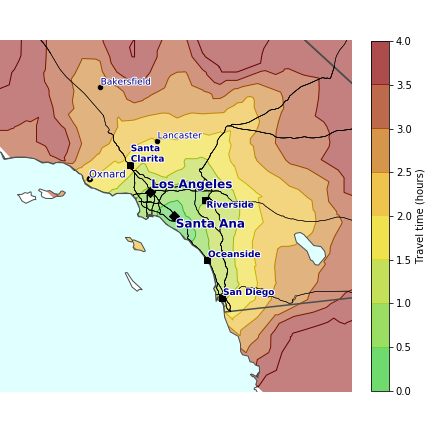
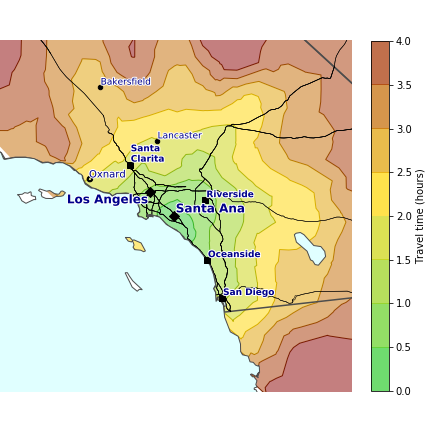
small tweaks

Changed region(s): [[0.0, 0.0903, 0.8125, 0.9028], [0.8426, 0.0903, 0.9028, 0.5116], [0.331, 0.3009, 0.3611, 0.331]]

diff --git a/_pages/chronomaps.md b/_pages/chronomaps.md
@@ -343,7 +343,7 @@ def morph(pp, p0, func, projmap=''):
 ```
 This function simply decomposes a point (given as (lon,lat) pair of coordinates) into radial coordinates from the origin `p0`, `(dx,dy)-> (r,theta)`, computes a new radius given by the input function (which will give the travel time), and returns a `(x',y')` pair in the same direction with respect to the origin as the original point but with a new radius given by the travel time.
 
-Given that we have the travel times only on a discrete set of grid points and we want to rescale map features at arbitrary points, we need to interpolate the travel times over the input grid.  After trying the `interp2d, NearestNDInterpolator, LinearNDInterpolator, Rbf` methods of `scipy.interpolate`, I saw that the best results (more accurate, less noisy) were given by linear interpolation, i.e. `LinearNDInterpolator`.
+Given that we have the travel times only on a discrete set of grid points and we want to rescale map features at arbitrary points, we need to interpolate the travel times over the input grid.  After trying the `interp2d, NearestNDInterpolator, LinearNDInterpolator, Rbf` methods of `scipy.interpolate`, I saw that the best results (more accurate, less noisy) were given by `Rbf`, radial basis function approximator, with linear method.
 
 ```python 
 from scipy.interpolate import interp2d, NearestNDInterpolator, LinearNDInterpolator, Rbf
@@ -351,11 +351,11 @@ from scipy.interpolate import interp2d, NearestNDInterpolator, LinearNDInterpola
 func1 = interp2d(xx,yy,zz)
 func2 = NearestNDInterpolator(zip(xx,yy),zz)
 func3 = LinearNDInterpolator(zip(xx,yy),zz)
-func4 = Rbf(xx,yy,zz)
+func4 = Rbf(xx,yy,zz, function='linear')
+func5 = Rbf(xx,yy,zz)
 
 def time_func(pp):
-    res = func3(*pp) if not np.isnan(func3(*pp)) else func4(*pp)
-    return res
+    return  func4(*pp)
 ```
 
 We can now feed any point of any feature in `morph()` with input function `time_func` and the resulting map will, by construction, be a chronomap. In order to actually draw the chronompas, we will need a to go through a short detour to import features to display on the map.
@@ -367,7 +367,7 @@ We can now feed any point of any feature in `morph()` with input function `time_
 
     > Primary roads are generally divided, limited-access highways within the interstate highway system or under State management, and are distinguished by the presence of interchanges
 
-- cities: we use the `GeoNamesCache` dataset, which can easily be installed as a `conda` package. It contains information about countries, states and cities all over the world, but we will be interested in the cities dataset. We then filter the dataset to only get the list of US cities:
+- cities: we use the [GeoNames](https://www.geonames.org) dataset, accessible through `GeoNamesCache` in python, which can easily be installed as a `conda` package (on Windows only, use `pip` on Mac/Linux). It contains information about countries, states and cities all over the world, but we will be interested in the cities dataset. We then filter the dataset to only get the list of US cities:
 
     ```python
 import geonamescache
@@ -404,7 +404,7 @@ def map_font_style(pop, bins=np.array([.01,.05,.1,.5,1,3])*10**6, sizes=[7,8,9,9
         ci.append(sum([ ci2[3] for ci2 in absorbed_cities]))
     return cities
     ```
-    From an input of cities, each passed as `[lon, lat, name, population]`, for each city this looks at cities within a certain radius (25 miles by default) and adds the population of any smaller city to the city around which we are looking. The list of cities returned is then `[lon, lat, name, population, clsutered_cities_names, clsutered_cities_populations]`: as an example, take Los Angeles, which has 3.97M people in GeoNamesCache database. Within a 25 miles radius, we have Long Beach (474K) and Anaheim (350k), and many more. Summing together all the 113 cities within a 25 miles of Los Angeles, there are 11M people! So when drawing the map, I will not draw any of the smaller cities and just assign 11 million people to Los Angeles.
+    From an input of cities, each passed as `[lon, lat, name, population]`, for each city this looks at cities within a certain radius (25 miles by default) and adds the population of any smaller city to the city around which we are looking. The list of cities returned is then `[lon, lat, name, population, clsutered_cities_names, clsutered_cities_populations]`: as an example, take Los Angeles, which has 3.97M people in the GeoNamesCache database. Within a 25 miles radius, we have Long Beach (474k) and Anaheim (350k), and many more. Summing together all the 113 cities within a 25 miles of Los Angeles, there are 11M people! So when drawing the map, I will not draw any of the smaller cities and just assign 11 million people to Los Angeles.
   
 #### Chronomaps
 Finally, we are now equipped to make chronomaps that are visually recognizable. As I will be making many of these figures, I wrote a function that will return the whole chronomap, `make_chronomap(x,y,z, ax, projmap, p0, levels, lim = 155, plot_states=True, plot_cities=True, dist_cut=25, n_cities_cut=20, small_city_radius=0, plot_roads=True, roads='', plot_water=True, cbarlabel='Travel time (hours)', theta='', water_lw=1, zorder_water=3)`
@@ -435,7 +435,7 @@ cities = [[ci['longitude'],ci['latitude'],ci['name'],ci['population']] for ci in
 cities = cluster_cities(cities, dist_cut)
 cities_plot = [ci for ci in cities if (len(ci)>4 and time_func([ci[0], ci[1]])<levels[-2]) or time_func([ci[0], ci[1]])<small_city_radius]
 texts=[]
-for ci in cities_plot[:n_cities_cut]:
+for ci in reversed(cities_plot[:n_cities_cut]):
     mci = morph([ci[0], ci[1]], p0, time_func, projmap=themap)
     if is_in_range(mci, ax.get_xlim(),ax.get_ylim()) :
         ax.scatter(*mci, c='k', zorder=100, **map_point_style(ci[-1]) )
@@ -443,7 +443,7 @@ for ci in cities_plot[:n_cities_cut]:
         texts.append(ax.text(*mci, s=reformat_name(ci[2]), fontdict=font, zorder=100))
 for txt in texts: txt.set_path_effects([PathEffects.withStroke(linewidth=2, foreground='w')])
 ```
-Here first I get a list of cities from the GeoNamesCache database, filtering the ones that are in the geographical range of the map, then I cluster them, and finally I plot each city and add a text label with the correct font reflecting the population. A cool feature of `matplotlib` is the ability to put a white background behind the text to improve readability. This is done via `set_path_effects([PathEffects.withStroke()])` in the last line.
+Here first I get a list of cities from the GeoNamesCache database, filtering the ones that are in the geographical range of the map, then I cluster them, and finally I plot each city and add a text label with the correct font reflecting the population. The list is reversed because we want a large city to show up on top of a smaller city if their labels overlap. A cool feature of `matplotlib` is the ability to put a white background behind the text to improve readability. This is done via `set_path_effects([PathEffects.withStroke()])` in the last line.
 
 Finally, I plot the isochrones, which by construction are now circles:
 ```python
@@ -459,10 +459,11 @@ I find that the map looks better (more intuitive) by adding a water layer with o
 
 For the last zoomed map, I used the `make_chronomap parameters `dist_cut=10, n_cities_cut=30, small_city_radius=30`: as we are zooming in, I clustered cities with a 10 mile radius, displayed up to 30 cities, and showed all cities within a 30 miles radius of the origin. The resulting map is busy enough, but not too much.
 
+One last comment: the maps would be much messier if it were not for the [adjustText](https://github.com/Phlya/adjustText) package. This package iteratively adjusts the position of text labels to minimize overlaps, while trying to keep the label as close to the original anchor as possible.
 
 ### More Chronomaps
 
-After showing step-by-step how to make chronomaps, we can do many more in a batch. We simply define a list of cities, get tehir coordinates from GeoNamesCache (as before, this could also be done with the Google Maps Geocoding API) and a list of EPSG codes for each city (these can be found on [https://spatialreference.org]()
+After showing step-by-step how to make chronomaps, we can do many more in a batch. We simply define a list of cities, get their coordinates from GeoNamesCache (as before, this could also be done with the Google Maps Geocoding API) and a list of EPSG codes for each city (these can be found on [https://spatialreference.org]()
 
 ```python
 cities_list = ['San Francisco', 'Seattle', 'Denver', 'Chicago', 'Washington, D.C.', 'New York City']
@@ -515,7 +516,11 @@ for idx in range(len(cities_list)):
     ax = make_chronomap(xx,yy,zz, ax, [themap,themap0], p0, levels=levels, plot_cities=True, plot_roads=not True,
                        roads=roads_list[idx], plot_water=True, dist_cut=30, theta=th0)
 ```
-This code generates the following figures:
-
 ![/assets/images/chronomaps/grid_cities_chronomaps.png](/assets/images/chronomaps/grid_cities_chronomaps.png)
 
+In the Jupyter notebook I also generate more chronomaps that are zoomed in the 1-hour range near each origin. This is done simply by changing the `levels` specifications and the `lim` argument to determine a smaller range.
+
+Finally, I generate also animations (find them in the [animations](#animations) subsection above, with matplotlib's `FuncAnimation`. The steps involved are the same discussed above, so no need to repeat them here.
+
+
+That's it at the moment! Get back to the [Results](#results) section to see combined chronomaps, and the videos.
